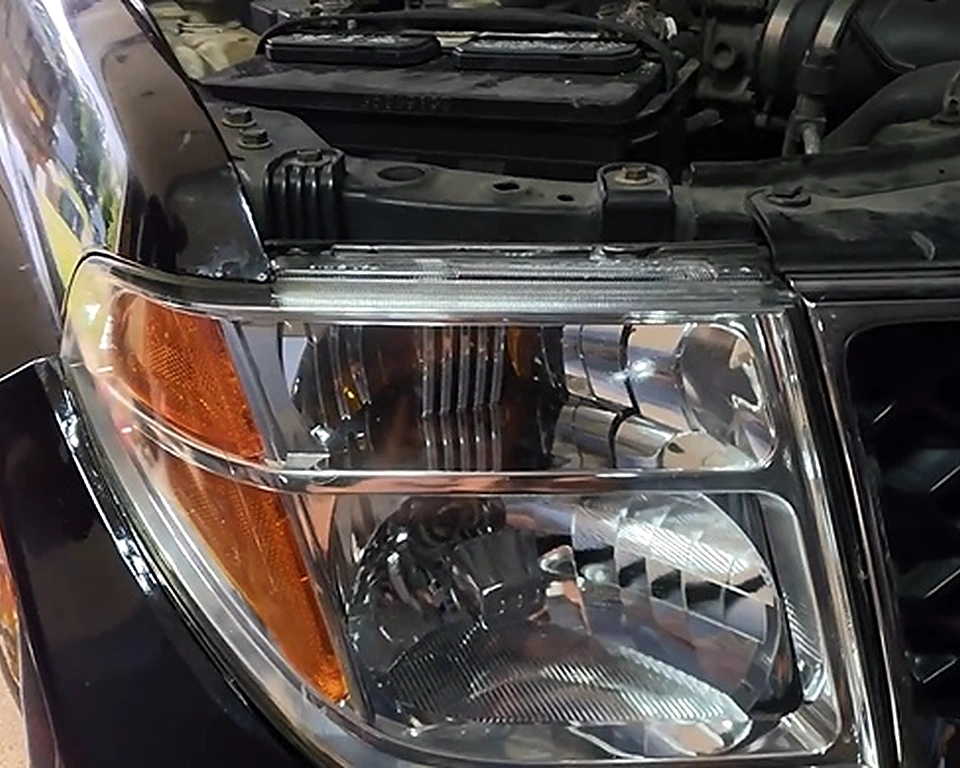
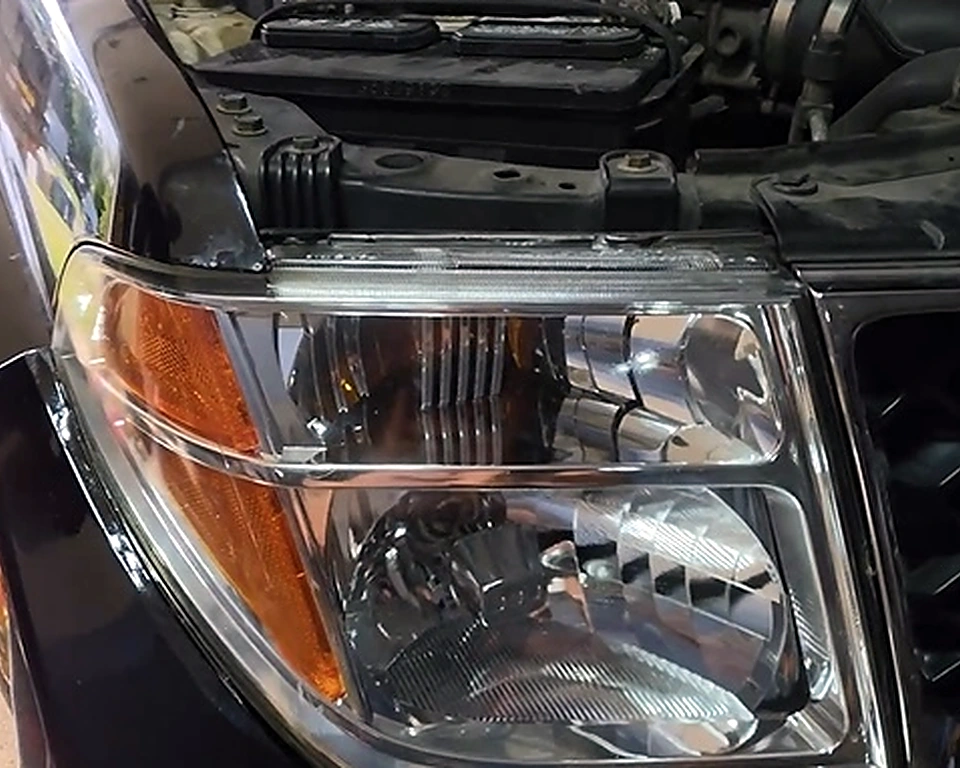
deploy: refine BrightRoute hero slider spacing and alignment

diff --git a/index.html b/index.html
@@ -19,8 +19,8 @@
   <link rel="icon" type="image/png" sizes="48x48" href="/assets/favicons/icon-48-centered.png" />
   <link rel="apple-touch-icon" sizes="180x180" href="/assets/favicons/icon-180.png" />
   <link rel="manifest" href="/assets/favicons/site.webmanifest" />
-  <link rel="preload" as="image" href="assets/hero-slider-before.webp?v=20260707-slider-framing-wide" />
-  <link rel="preload" as="image" href="assets/hero-slider-after.webp?v=20260707-slider-framing-wide" />
+  <link rel="preload" as="image" href="assets/hero-slider-before.webp?v=20260707-slider-framing-aligned" />
+  <link rel="preload" as="image" href="assets/hero-slider-after.webp?v=20260707-slider-framing-aligned" />
   <link rel="stylesheet" href="styles.css?v=1.3" />
   <script type="application/ld+json">
   {
@@ -101,10 +101,10 @@
         <figure class="hero-proof-card hero-slider-shell">
           <div class="comparison hero-comparison before-after-slider" data-slider style="--split:58%;">
             <div class="ba-layer ba-layer-before">
-              <img class="ba-image ba-image-before" src="assets/hero-slider-after.webp?v=20260707-slider-framing-wide" alt="After: clear headlight after restoration" />
+              <img class="ba-image ba-image-before" src="assets/hero-slider-after.webp?v=20260707-slider-framing-aligned" alt="After: clear headlight after restoration" />
             </div>
             <div class="ba-layer ba-layer-after">
-              <img class="ba-image ba-image-after" src="assets/hero-slider-before.webp?v=20260707-slider-framing-wide" alt="Before: cloudy oxidized headlight" />
+              <img class="ba-image ba-image-after" src="assets/hero-slider-before.webp?v=20260707-slider-framing-aligned" alt="Before: cloudy oxidized headlight" />
             </div>
             <span class="hero-label hero-label-left">Before</span>
             <span class="hero-label hero-label-right">After</span>